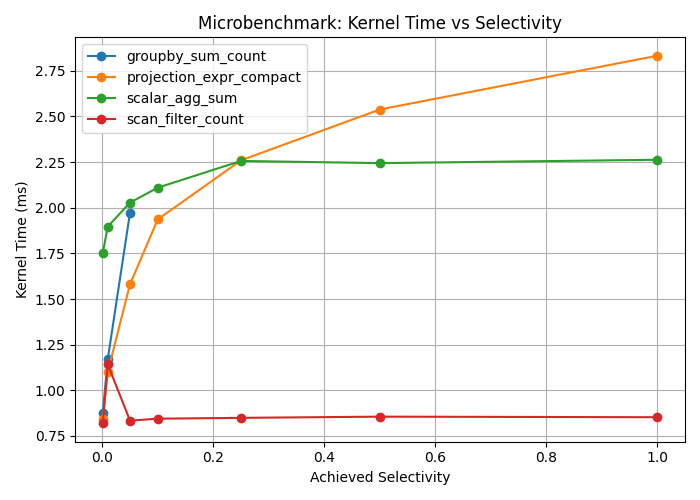
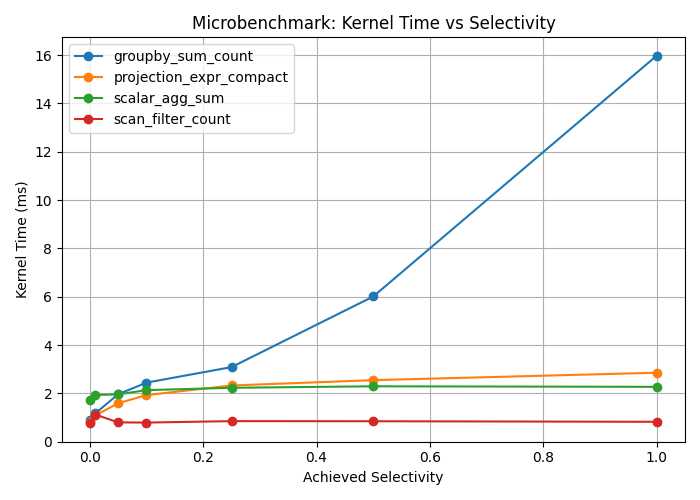
Plots are added
new plots for microbenchmark, grouped by query 6 and 1. New scripts added for this.

diff --git a/Scripts/Micro/microbech_per_querry.py b/Scripts/Micro/microbech_per_querry.py
@@ -1,0 +1,67 @@
+import pandas as pd
+import matplotlib.pyplot as plt
+
+# Load CSV
+df = pd.read_csv("micro_results.csv")
+
+Q6_OPS = ["scan_filter_count", "scalar_agg_sum"]
+Q1_OPS = ["scan_filter_count", "groupby_sum_count"]
+
+
+
+# Numeric conversions 
+for c in ["selectivity_target", "selectivity_achieved", "kernel_ms", "rows_per_s", "eff_GBps", "N"]:
+    if c in df.columns:
+        df[c] = pd.to_numeric(df[c], errors="coerce")
+
+# valid selectivity 
+df = df.dropna(subset=["selectivity_target", "selectivity_achieved"])
+df = df[(df["selectivity_target"] > 0) & (df["selectivity_achieved"] > 0)]
+
+# Derive ns/tuple 
+df = df.dropna(subset=["kernel_ms", "N"])
+df["ns_per_tuple"] = (df["kernel_ms"] * 1e6) / df["N"]
+
+# Median metric per (operator, selectivity_target)
+def med(metric):
+    g = df.groupby(["operator", "selectivity_target"], as_index=False).agg(
+        x=("selectivity_achieved", "median"),
+        y=(metric, "median"),
+    )
+    return g.dropna(subset=["x", "y"])
+
+time = med("kernel_ms")
+thr  = med("rows_per_s")
+bw   = med("eff_GBps")
+npt  = med("ns_per_tuple")
+
+def plot_panel(ax, data, ops, title, ylabel):
+    for op in ops:
+        s = data[data["operator"] == op].sort_values("x")
+        if not s.empty:
+            ax.plot(s["x"], s["y"], "o-", label=op)
+    ax.set_xscale("log")
+    ax.set_title(title)
+    ax.set_xlabel("Selectivity (achieved, log scale)")
+    ax.set_ylabel(ylabel)
+    ax.grid(True, which="both", alpha=0.3)
+    ax.legend()
+
+fig, axs = plt.subplots(3, 2, figsize=(14, 10))
+
+# Row 1: Q6
+plot_panel(axs[0, 0], time, Q6_OPS, "Q6 group: time vs selectivity", "Kernel time (ms)")
+plot_panel(axs[0, 1], thr,  Q6_OPS, "Q6 group: throughput vs selectivity", "Throughput (rows/s)")
+
+# Row 2: Q1
+plot_panel(axs[1, 0], time, Q1_OPS, "Q1 group: time vs selectivity", "Kernel time (ms)")
+plot_panel(axs[1, 1], thr,  Q1_OPS, "Q1 group: throughput vs selectivity", "Throughput (rows/s)")
+
+# Row 3: “why”
+plot_panel(axs[2, 0], bw,  ["scan_filter_count"], "Scan+filter: Estimated memory bandwidth (GB/s) vs selectivity", "Effective bandwidth (GB/s)")
+plot_panel(axs[2, 1], npt, ["groupby_sum_count"], "Group-by: ns/tuple vs selectivity", "Time per tuple (ns/tuple)")
+
+fig.suptitle("Microbenchmark (query-grouped): selectivity sensitivity and bottleneck indicators", y=0.995)
+plt.tight_layout()
+plt.show()
+

diff --git a/Scripts/Micro/plot_microbenchmark.py b/Scripts/Micro/plot_microbenchmark.py
@@ -2,7 +2,7 @@ import pandas as pd
 import matplotlib.pyplot as plt
 
 # Load CSV
-df = pd.read_csv("results.csv")
+df = pd.read_csv("micro_results.csv")
 
 # Keep only correct runs
 df = df[df["correct"] == 1]
